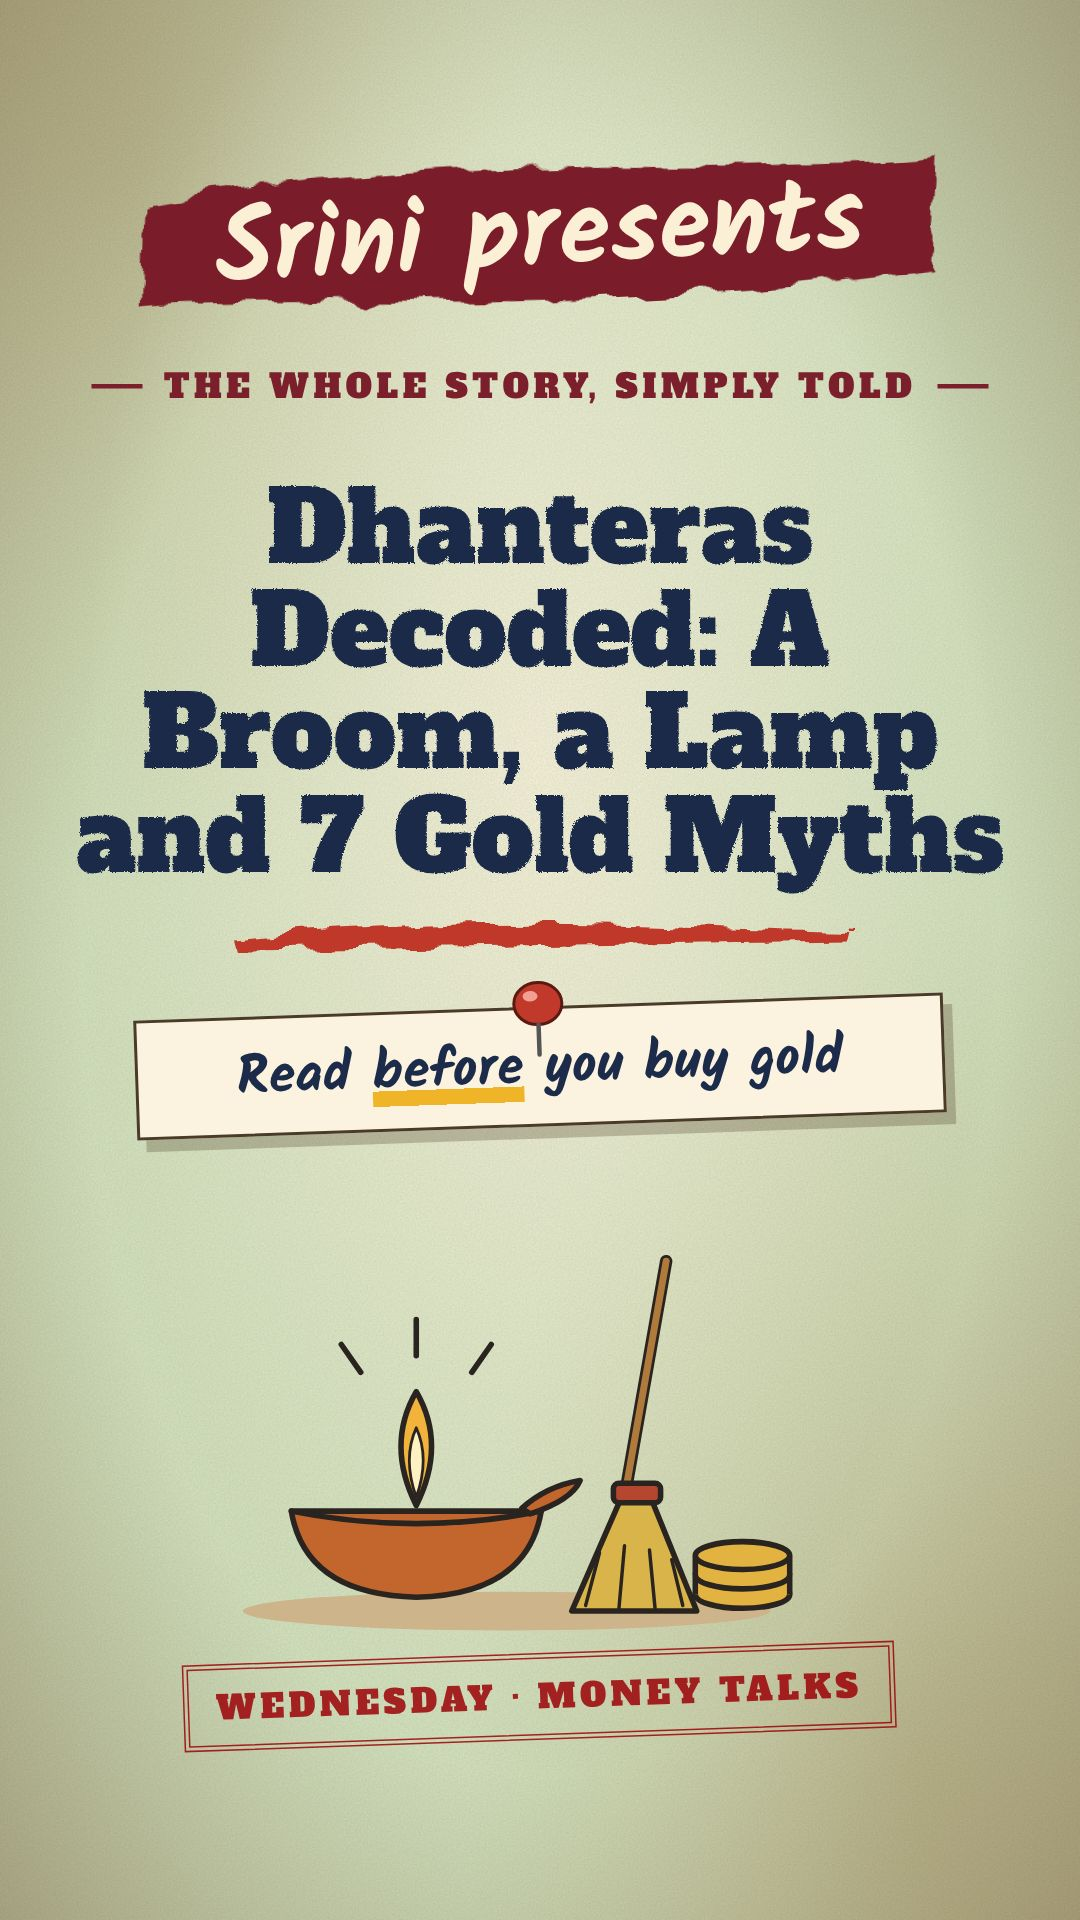
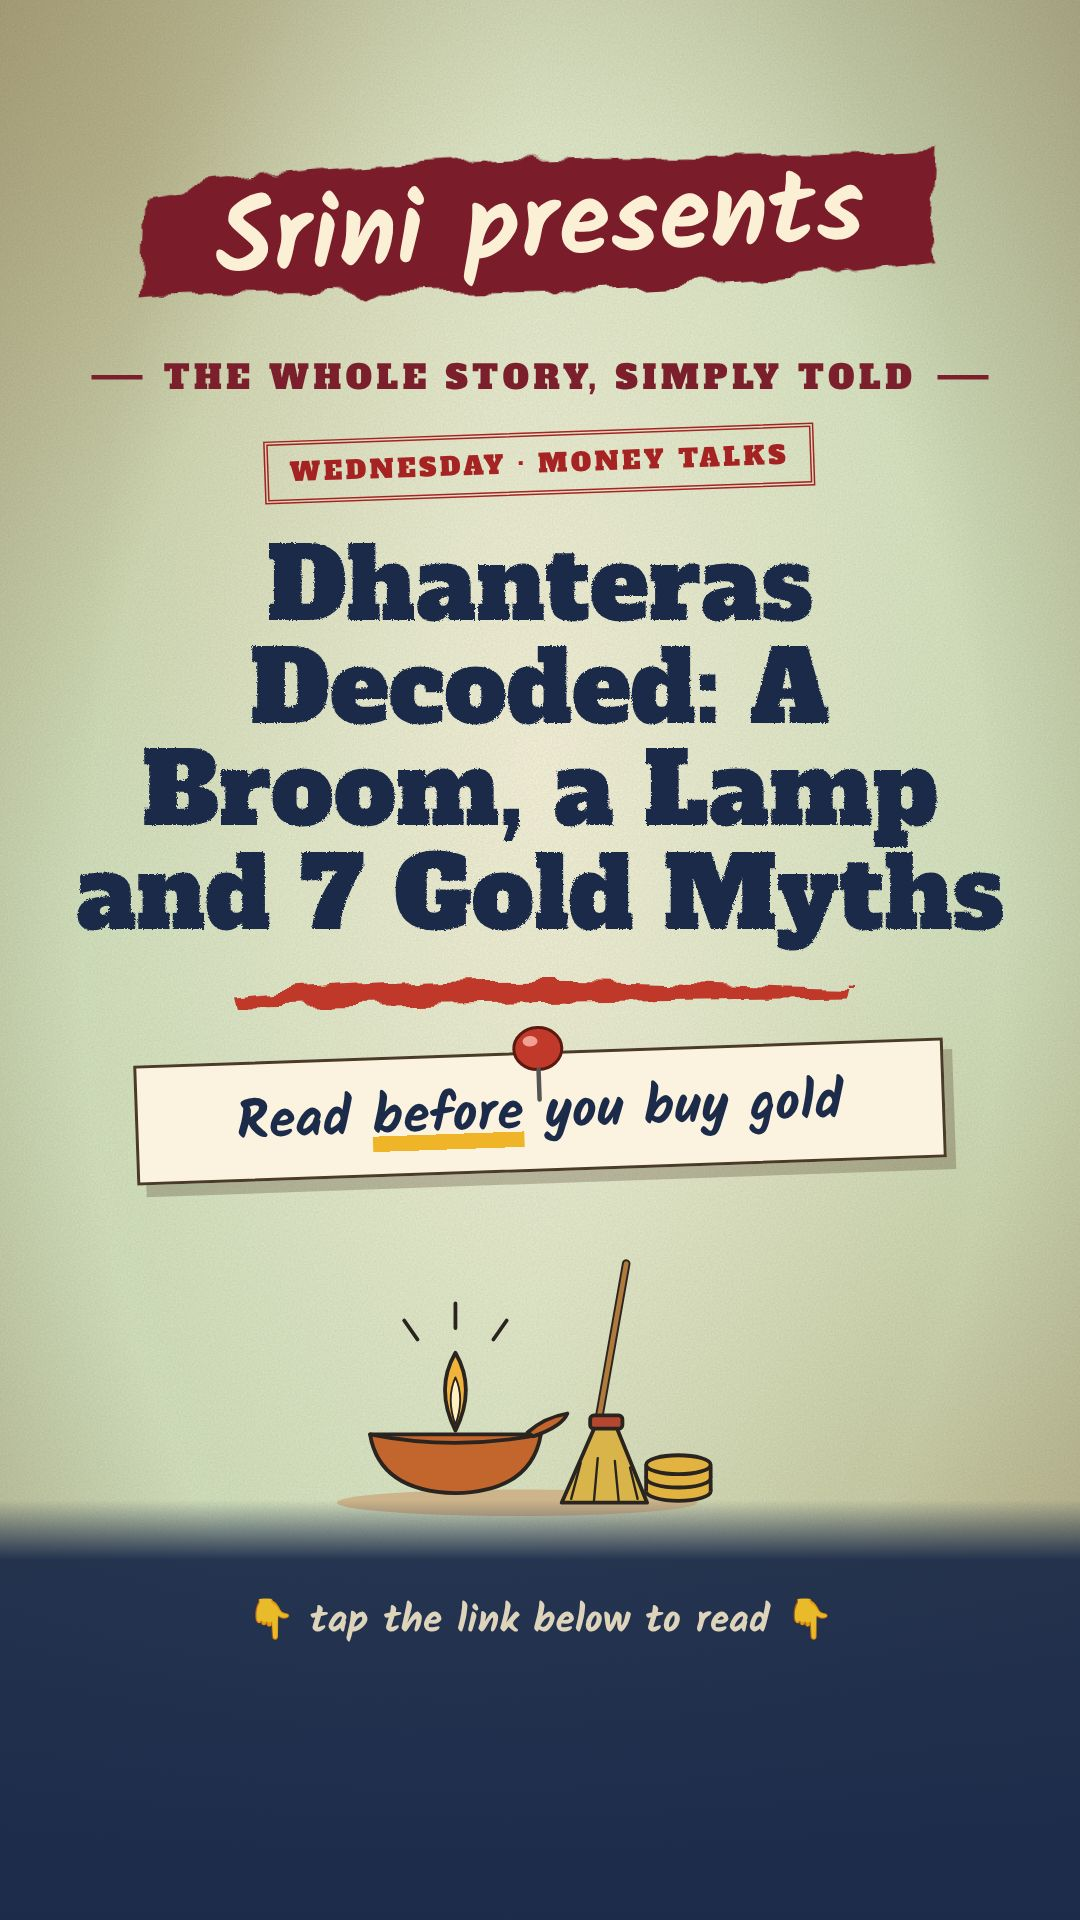
Tall card: empty dark band at bottom so the white status caption/link is readable; stamp moved up
Claude-Session: https://claude.ai/code/session_01Qi2MpXsvdcXB5DZkNHcBZS

diff --git a/.github/share/card_story_template.html b/.github/share/card_story_template.html
@@ -4,7 +4,7 @@
 @font-face{font-family:'Kalam';font-weight:400;src:url(fonts/Kalam-Regular.ttf)}
 html,body{margin:0;padding:0}
 body{width:720px;height:1280px;overflow:hidden;font-family:'Kalam',cursive}
-.card{position:relative;width:720px;height:1280px;background:{{PAPER}};overflow:hidden;display:flex;flex-direction:column;align-items:center;box-sizing:border-box;padding:96px 44px 120px}
+.card{position:relative;width:720px;height:1280px;background:{{PAPER}};overflow:hidden;display:flex;flex-direction:column;align-items:center;box-sizing:border-box;padding:90px 40px 300px}
 .card::before{content:"";position:absolute;inset:0;background:
  radial-gradient(ellipse at 50% 40%,rgba(255,248,230,.75) 0%,rgba(255,248,230,0) 60%),
  radial-gradient(ellipse at 85% 92%,rgba(150,100,40,.22) 0%,rgba(150,100,40,0) 35%),
@@ -16,13 +16,15 @@ body{width:720px;height:1280px;overflow:hidden;font-family:'Kalam',cursive}
 .brush span{position:absolute;left:0;top:0;width:100%;height:100%;display:flex;align-items:center;justify-content:center;font:700 70px 'Kalam';color:#fbefd5;white-space:nowrap}
 .tag{margin-top:22px;font:400 22px 'Alfa Slab One';letter-spacing:.14em;color:#7a1f2b;display:flex;align-items:center;gap:14px;white-space:nowrap;flex:none}
 .tag i{display:block;width:34px;height:3px;background:#7a1f2b}
-h1{margin:46px 0 0;width:632px;text-align:center;font:400 78px/1.04 'Alfa Slab One';color:#1c2b4a;filter:url(#ink);flex:none}
+h1{margin:26px 0 0;width:632px;text-align:center;font:400 70px/1.04 'Alfa Slab One';color:#1c2b4a;filter:url(#ink);flex:none}
 .uline{margin-top:14px;flex:none}
-.note{margin-top:34px;width:500px;padding:20px 18px 16px;background:#fbf3df;border:2px solid #4a3a28;box-shadow:6px 8px 0 rgba(60,40,20,.25);transform:rotate(-2deg);text-align:center;font:700 36px/1.1 'Kalam';color:#1c2b4a;flex:none}
+.note{margin-top:26px;width:500px;padding:20px 18px 16px;background:#fbf3df;border:2px solid #4a3a28;box-shadow:6px 8px 0 rgba(60,40,20,.25);transform:rotate(-2deg);text-align:center;font:700 36px/1.1 'Kalam';color:#1c2b4a;flex:none}
 .note u{text-decoration:none;background:linear-gradient(transparent 70%,#f0b429 70%,#f0b429 88%,transparent 88%)}
 .pin{position:absolute;left:50%;top:-22px;transform:translateX(-50%)}
-.art{flex:1 1 auto;width:620px;min-height:200px;margin-top:20px}
-.stamp{flex:none;margin-top:10px;transform:rotate(-2deg);border:4px double #9d0208;color:#9d0208;font:400 22px 'Alfa Slab One';letter-spacing:.14em;padding:10px 18px;opacity:.85;text-align:center;white-space:nowrap}
+.art{flex:1 1 auto;width:640px;min-height:220px;margin-top:14px}
+.band{position:absolute!important;left:0;right:0;bottom:0;height:280px;background:linear-gradient(180deg,rgba(28,43,74,0) 0,rgba(28,43,74,.95) 40px,#1c2b4a 100%)}
+.band span{position:absolute;left:0;right:0;top:60px;text-align:center;font:700 26px 'Kalam';color:#f3e6c8;opacity:.9}
+.stamp{flex:none;margin-top:22px;transform:rotate(-2deg);border:3px double #9d0208;color:#9d0208;font:400 17px 'Alfa Slab One';letter-spacing:.14em;padding:6px 14px;opacity:.85;text-align:center;white-space:nowrap}
 </style></head><body>
 <div class="card">
 <svg width="0" height="0" style="position:absolute">
@@ -36,11 +38,12 @@ h1{margin:46px 0 0;width:632px;text-align:center;font:400 78px/1.04 'Alfa Slab O
 <svg class="grain" width="720" height="1280"><filter id="g"><feTurbulence type="fractalNoise" baseFrequency="0.85" numOctaves="3" stitchTiles="stitch"/><feColorMatrix values="0 0 0 0 0.35  0 0 0 0 0.25  0 0 0 0 0.12  0 0 0 0.55 0"/></filter><rect width="720" height="1280" filter="url(#g)"/></svg>
 <div class="brush"><svg width="560" height="116" viewBox="0 0 430 96" preserveAspectRatio="none"><path filter="url(#rough)" d="M12 22 Q120 6 260 14 T420 18 L414 80 Q300 92 160 84 T8 78 Z" fill="#7a1f2b"/></svg><span>Srini presents</span></div>
 <div class="tag"><i></i>THE WHOLE STORY, SIMPLY TOLD<i></i></div>
+<div class="stamp">{{WEEKDAY}} · {{THEME}}</div>
 <h1 id="t">{{TITLE}}</h1>
 <svg class="uline" width="420" height="30" viewBox="0 0 420 30"><path filter="url(#rough)" d="M4 18 Q140 4 300 10 T416 12 L414 20 Q280 22 150 24 T6 26 Z" fill="#c0392b"/></svg>
 <div class="note"><svg class="pin" width="44" height="54" viewBox="0 0 44 54"><ellipse cx="22" cy="18" rx="16" ry="14" fill="#c0392b" stroke="#5a1a12" stroke-width="2"/><ellipse cx="17" cy="13" rx="5" ry="3.5" fill="#f2a093"/><path d="M22 32 L22 52" stroke="#555" stroke-width="3" stroke-linecap="round"/></svg>{{NOTE}}</div>
 <svg class="art" viewBox="0 0 430 400" preserveAspectRatio="xMidYMid meet">{{ART}}</svg>
-<div class="stamp">{{WEEKDAY}} · {{THEME}}</div>
+<div class="band"><span>👇 tap the link below to read 👇</span></div>
 </div>
-<script>window.cardReady=document.fonts.ready.then(function(){var h=document.getElementById("t"),f=78;while(h.scrollHeight>340&&f>48){f-=2;h.style.fontSize=f+"px";}return true;});</script>
+<script>window.cardReady=document.fonts.ready.then(function(){var h=document.getElementById("t"),f=70;while(h.scrollHeight>300&&f>48){f-=2;h.style.fontSize=f+"px";}return true;});</script>
 </body></html>
